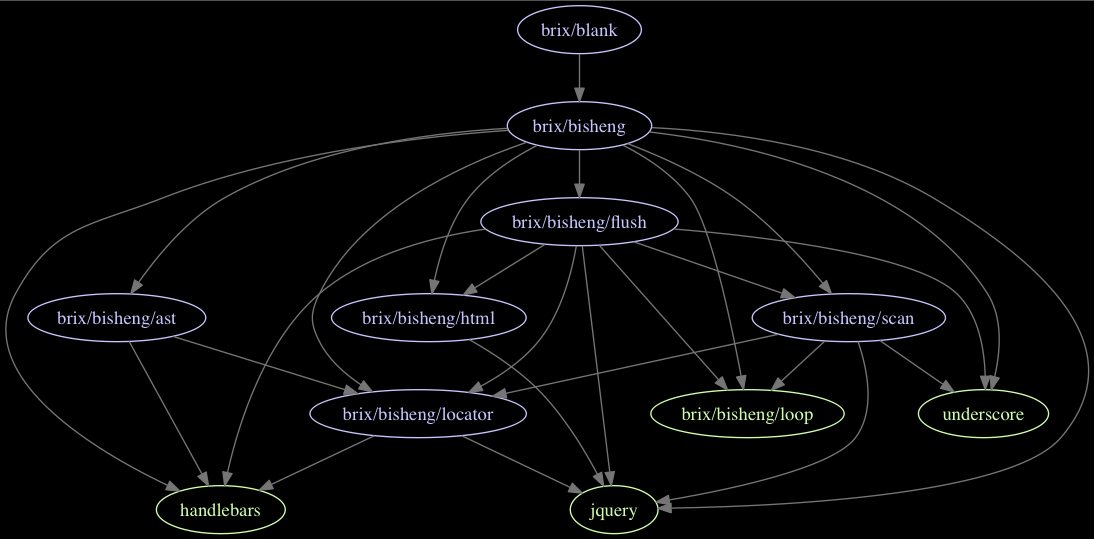
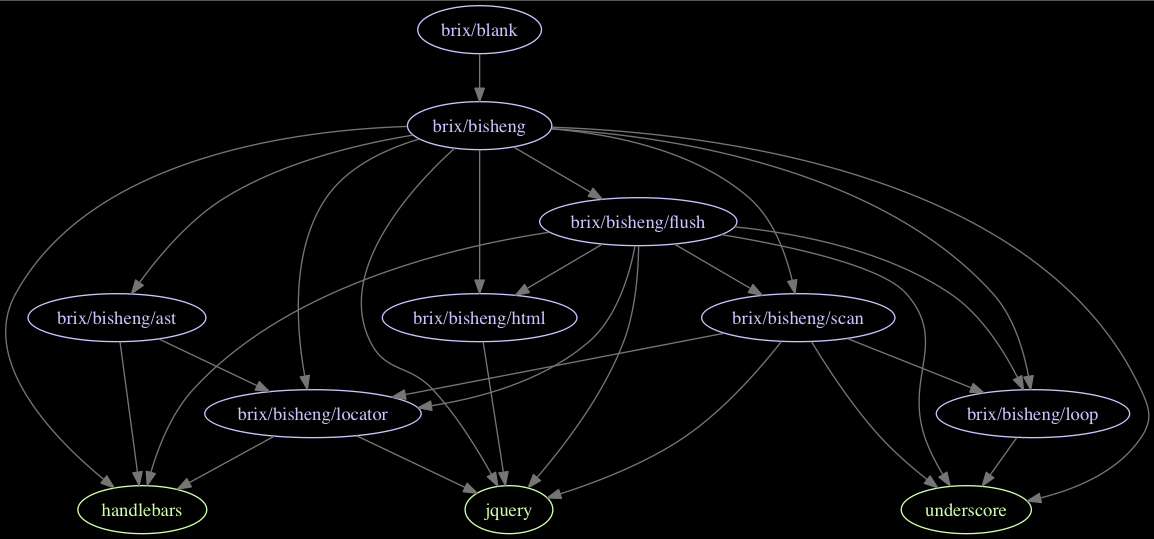
+ _.throttle(task, 10)

diff --git a/demo/demo.bisheng.tmp.html b/demo/demo.bisheng.tmp.html
@@ -29,19 +29,23 @@
     </script>
 
     <script id="hello" type="template">
-        <div class="comments {{#if comments}}hello{{/if}}">
-          {{#if comments}}
-          {{#each comments}}
-            <div class="comment">
-              <h2>{{subject}}</h2>
-              <span>{{{body}}}</span>
+        <form>
+            <div class="radio">
+                <label>
+                    <input type="radio" name="optionsRadios" value="{{radioValue1}}" checked="{{radioChecked1}}">
+                    Option one is this and that&mdash;be sure to include why it's great
+                </label>
             </div>
-          {{/each}}
-          {{/if}}
-          {{#unless comments}}
-            <h3 class="warning">WARNING: This entry does not have any records!</h3>
-          {{/unless}}
-        </div>
+            <div class="radio">
+                <label>
+                    <input type="radio" name="optionsRadios" value="{{radioValue2}}" checked="{{radioChecked2}}">
+                    Option two can be something else and selecting it will deselect option one
+                </label>
+            </div>
+            <p>
+                {{optionsRadios}}
+            </p>
+        </form>
     </script>
 
     <div class="container">
@@ -55,40 +59,23 @@
             // BS.auto(true)
             var tpl = $('#hello').html()
             data = {
-                fbdata: fbdata,
-                comments: []
-            }
-            for (var i = 0; i < 1000; i++) {
-                data.comments.push({
-                    subject: 'subject' + Math.random(),
-                    body: 'body' + Math.random(),
-                    nested: {
-                        nested: {
-                            nested: {
-                                nested: {
-                                    nested: {
-
-                                    }
-                                }
-                            }
-                        }
-                    }
-                })
+                optionsRadios: 'optionsRadios',
+                radioValue1: 'radioValue1',
+                radioValue2: 'radioValue2',
+                radioChecked1: true,
+                radioChecked2: false
             }
             bs = BS.bind(data, tpl, function(content){
                 $('#demo').append(content)
             })
+            task = function(){
+                data.radioChecked1 = false
+                data.radioChecked2 = true
+            }
             setTimeout(function(){
-                console.log(data.comments.length)
-                data.comments.push({
-                    subject: 'subject' + Math.random(),
-                    body: 'body' + Math.random()
-                })
-                // data.comments.push({
-                //     subject: 'subject' + Math.random(),
-                //     body: 'body' + Math.random()
-                // })
-                bs.apply()
+                // data.radioChecked1 = false
+                // data.radioChecked2 = true
+                // bs.apply()
             }, 10)
             
             // bs.apply()

diff --git a/dist/bisheng.js b/dist/bisheng.js
@@ -20,8 +20,12 @@
         X $data X $watchers √ $blocks √ $helpers √ $path
 */
 define(
-    'brix/bisheng/loop',[],
-    function() {
+    'brix/bisheng/loop',[
+        'underscore'
+    ],
+    function(
+        _
+    ) {
 
         var DEBUG = ~location.search.indexOf('bisheng.debug') && {
             fix: function(arg, len) {
@@ -81,7 +85,7 @@ define(
             * Loop.unwatch(unwatch)
             * Loop.clone(clone)
             * Loop.diff(diff)
-            * Loop.letMeSee(letMeSee)
+            * Loop.letMeSee([data [, tpl ]])
 
         */
         var Loop = (function() {
@@ -166,6 +170,7 @@ define(
                         if (DEBUG) console.timeEnd(DEBUG.fix('shadow'))
                     }
                 }
+                task = _.throttle(task, 10)
                 task.data = data
                 task.callback = fn
                 if (fn && fn.tpl) task.tpl = fn.tpl
@@ -1939,12 +1944,12 @@ define(
                     }
 
                     var label
-                    if (DEBUG) label = DEBUG.fix('flush [' + index + '] ' + change.path.join('.'))
-                    if (DEBUG) console.group(label)
+                    if (DEBUG) label = DEBUG.fix('flush changes[' + index + '] ' + change.path.join('.'))
                     if (DEBUG) console.time(label)
+                    if (DEBUG) console.group(label)
                     Flush.handle(event, change, clone, context, options)
-                    if (DEBUG) console.timeEnd(label)
                     if (DEBUG) console.groupEnd(label)
+                    if (DEBUG) console.timeEnd(label)
                     if (DEBUG) console.log('>', change.path.join('.'))
 
                     if (location.href.indexOf('scrollIntoView') > -1) Flush.scrollIntoView(event, data)

diff --git a/demo/demo.bisheng.html b/demo/demo.bisheng.html
@@ -33,7 +33,7 @@
         <div class="{{getFavorSelected curTab}}">{{getFavorSelected curTab}}</div>
 
         <div class="row">
-            <div class="col-sm-6">
+            <div class="col-xs-6">
                 <form class="form-horizontal">
                     {{#each list}}
                     <div class="form-group">
@@ -45,7 +45,7 @@
                     {{/each}}
                 </form>
             </div>
-            <div class="col-sm-6">
+            <div class="col-xs-6">
                 <table class="table table-bordered">
                     <caption>Optional table caption.</caption>
                     <thead>
@@ -149,7 +149,7 @@
                     }
                 }
             }
-            for (var i = 0; i < 10; i++) {
+            for (var i = 0; i < 1000; i++) {
                 data.list.push({
                     id: i
                 })

diff --git a/src/brix/bisheng/loop.js b/src/brix/bisheng/loop.js
@@ -19,8 +19,12 @@
         X $data X $watchers √ $blocks √ $helpers √ $path
 */
 define(
-    [],
-    function() {
+    [
+        'underscore'
+    ],
+    function(
+        _
+    ) {
 
         var DEBUG = ~location.search.indexOf('bisheng.debug') && {
             fix: function(arg, len) {
@@ -80,7 +84,7 @@ define(
             * Loop.unwatch(unwatch)
             * Loop.clone(clone)
             * Loop.diff(diff)
-            * Loop.letMeSee(letMeSee)
+            * Loop.letMeSee([data [, tpl ]])
 
         */
         var Loop = (function() {
@@ -165,6 +169,7 @@ define(
                         if (DEBUG) console.timeEnd(DEBUG.fix('shadow'))
                     }
                 }
+                task = _.throttle(task, 10)
                 task.data = data
                 task.callback = fn
                 if (fn && fn.tpl) task.tpl = fn.tpl

diff --git a/src/brix/bisheng.js b/src/brix/bisheng.js
@@ -108,12 +108,12 @@ define(
                     }
 
                     var label
-                    if (DEBUG) label = DEBUG.fix('flush [' + index + '] ' + change.path.join('.'))
-                    if (DEBUG) console.group(label)
+                    if (DEBUG) label = DEBUG.fix('flush changes[' + index + '] ' + change.path.join('.'))
                     if (DEBUG) console.time(label)
+                    if (DEBUG) console.group(label)
                     Flush.handle(event, change, clone, context, options)
-                    if (DEBUG) console.timeEnd(label)
                     if (DEBUG) console.groupEnd(label)
+                    if (DEBUG) console.timeEnd(label)
                     if (DEBUG) console.log('>', change.path.join('.'))
 
                     if (location.href.indexOf('scrollIntoView') > -1) Flush.scrollIntoView(event, data)
